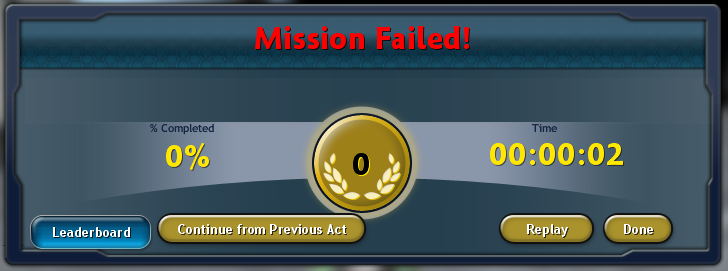
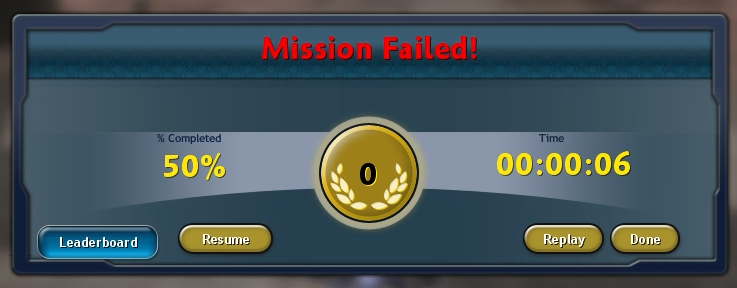
Updated README.md
Updated README with current mod details and credits.

diff --git a/README.md b/README.md
@@ -7,17 +7,28 @@ This mod adds a checkpoint system to Spore: Galactic Adventures where if you fai
 
 Also, when you use the checkpoint system to restart from an act, your time and summary will also be restored for the next attempt, meaning you can get a total amount of time taken to complete an adventure when you actually manage to finish it (including with counting the deaths that you took in that time, although failing goals like Protect won't count for that).
 
-The mod will also come with a cheat to jump to any act of your choosing, although with a time penalty since I can't let you go cheating the leaderboards with this, now can I? In any case, this cheat is more for testing your own adventures that they work fine regardless of which act they start in. Time penalty wouldn't matter in that case, now would it?
+The mod will also come with three new cheats such as a cheat to jump to any act of your choosing with a time penalty of 30 minutes per act when going forward, a cheat that will allow you to use checkpoints in act 1 or after completing an adventure, and a cheat to check the current settings of the mod.
 
 ## In summary...
-- New button has been added to the adventure results screen: ``Continue from Previous Act``
+- New button has been added to the adventure results screen: ``Resume``
   - Said button will restart the adventure, starting from the act you failed/succeeded in. Your play summary and time are preserved.
-- New cheat: ``gotoact``
-   - How to use: input ``gotoact <act>`` in the cheat console (``CTRL+SHIFT+C``), with `<act>` being the number of the act you want to enter
-   - Using said cheat to go forward in acts will incur a penalty of 30 minutes per act skipped.
+- New cheats: ``gotoact``, ``checkpointsExtended`` and ``checkpointsStatus``
+   - `gotoact`
+      - How to use: input ``gotoact <act>`` in the cheat console (``CTRL+SHIFT+C``), with `<act>` being the number of the act you want to enter
+      - Using said cheat to go forward in acts will incur a penalty of 30 minutes per act skipped.
+   - `checkpointsExtended`
+      - Usage: Inputting the cheat will toggle whether checkpoints appear in situations outside of adventure failure after act 1.
+   - `checkpointsStatus`
+      - Will print current state of boolean values associated with the mod.
+      - Two values: `checkpointsExtended` status and if Time and Deaths is visible.
 - New UI element: Time and Deaths
    - Said UI element will appear in adventure play mode, and will tell your current time and deaths during the adventure. 
    - Deaths are retrieved from the play summary, and unfortunately it doesn't count failed goals as deaths.
+   - Visibility toggled with `T` key.
+- Ability to reset current adventure act with keybind `CTRL+R`
+   - Will keep current time and summary of the adventure in progress.
+   - Not recommended for longer acts unless the adventure is softlocked.
+- Supported languages: English, Finnish, Swedish, Norwegian, Danish, Japanese, Polish, Spanish, Russian, German
 
 ## Credits
 * Liskomato - Concept, design, main developer
@@ -41,3 +52,4 @@ The mod will also come with a cheat to jump to any act of your choosing, althoug
 * Miikka64
 * sickleandsuckle/HRmatthew
 * I_am_THEdragon
+* Your Friend the Dragon/loldude555
